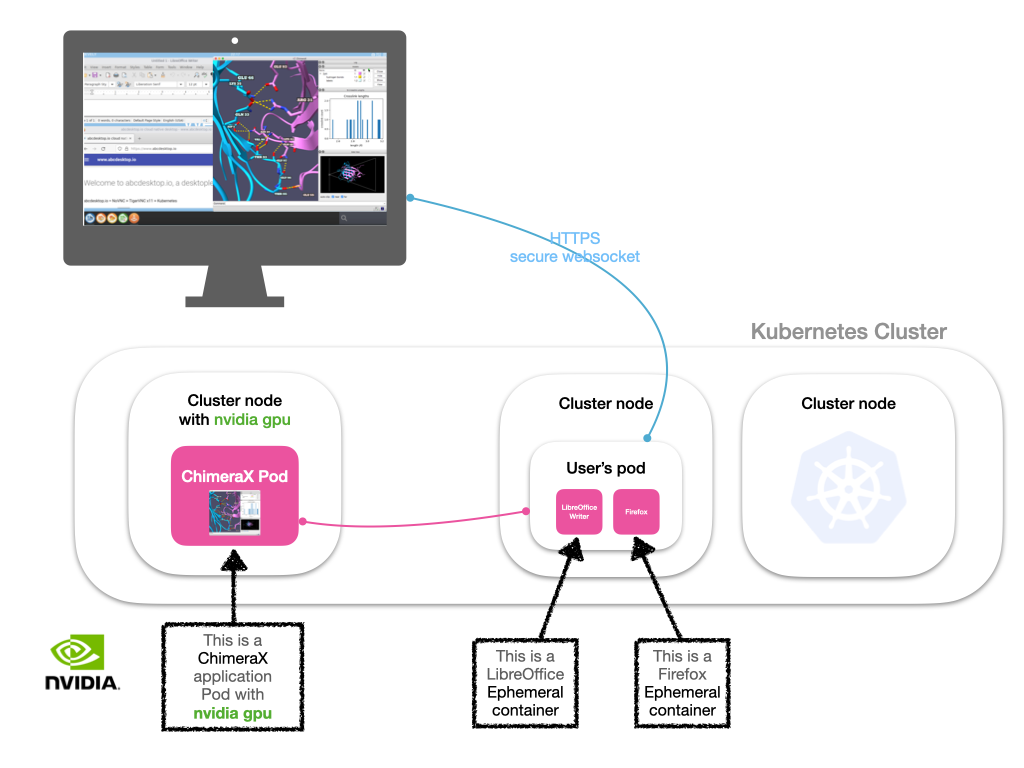
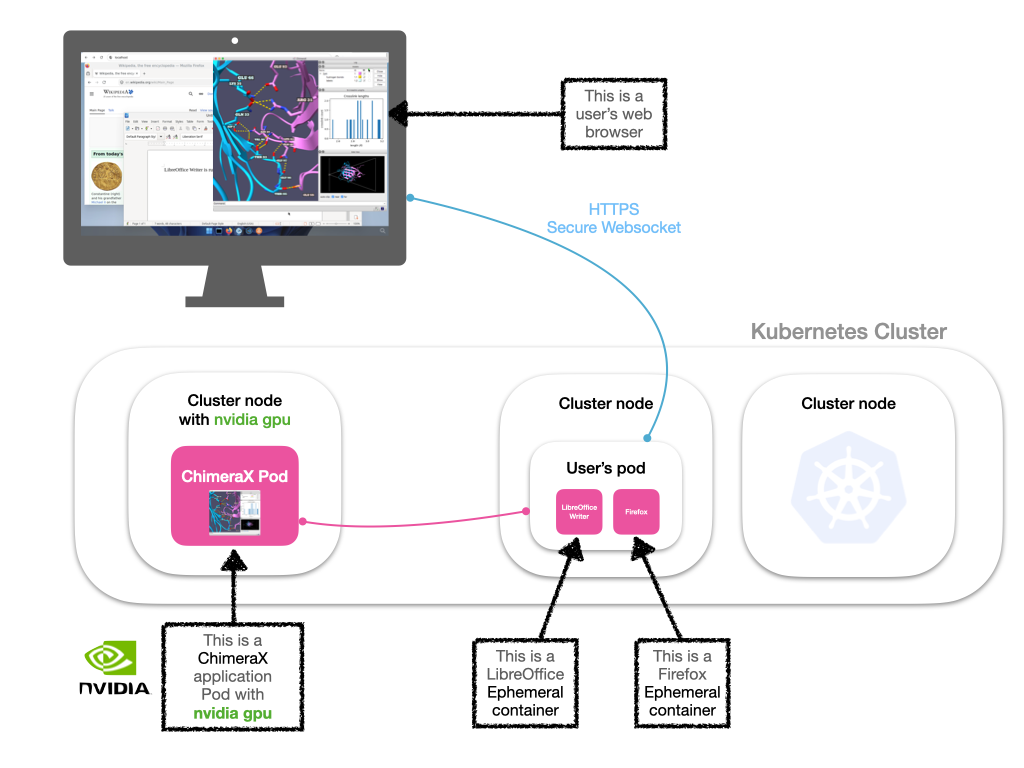
Deploying to gh-pages from @ abcdesktopio/newdocs@b22bd3d336c34a3dccef438cdfa4963bdb6b1477 🚀

diff --git a/index.html b/index.html
@@ -3752,7 +3752,7 @@
 <li>Desktop On Demand, Desktop as a service</li>
 </ul>
 <p>With abcdesktop, you can take advantage of all the power of your Kubernetes cluster for your virtual workstations. You can distribute user applications as <code>pods</code> or as <code>ephemeral containers</code> on all cluster nodes.</p>
-<p><img alt="abcdesktopuserpodnvidia" src="img/abcdesktopkubernetesclusterwithnvidiapod.png" /></p>
+<p><img alt="abcdesktopuserpodnvidia" src="img/abcdesktopkubernetescluster.png" /></p>
 <h2 id="quick-online-preview-latest-release-44">Quick online preview latest release 4.4</h2>
 <p>You can discover abcdesktop.io desktopless services on the demo website. <a href="https://demo.abcdesktop.io">https://demo.abcdesktop.io</a> instance is a quick example to illustrate how the abcdesktop.io project works. Your desktopless is ready to run up to 10 minutes, and will be terminated by the garbage collector after 10 minutes. It requires an OpenID Connect provider to sign-in like (Google, Facebook, Github). The security policy for Internet network prevents requests from your abcdesktop being allowed. Printer service (using cups) and sound service (using pulseaudio) inside the kubernetes pods are enabled.</p>
 <p>To reach the demo website, follow the link <a href="https://demo.abcdesktop.io">https://demo.abcdesktop.io</a></p>